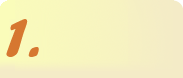
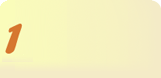
Resized the graphics and content container divs of the create a dataverse and become a contributor workflows, from their original 770px, to 676px, in order to fit within the 700px min-width of the dataverse layout. (Ticket #70882)
Added IE hack to give the dataverse containing div a min-width of 700px.

Deleted old, no longer used graphics for the contributor workflow.

Changed region(s): [[0.0311, 0.2308, 0.1553, 0.7436], [0.1553, 0.5897, 0.2174, 0.7436]]

diff --git a/src/DVN-web/web/resources/stylesheet.css b/src/DVN-web/web/resources/stylesheet.css
@@ -2,12 +2,14 @@
 
 /* MAIN LAYOUT */
 .dvn_wrapper {
-    min-width: 700px;
+    width: 100%;
+    min-width: 724px;
     position: relative;
-    background-color: white;
+    background-color: #fff;
 }
 .dvn_wrapperVanilla {
-    min-width: 700px;
+    width: 100%;
+    min-width: 724px;
     position: relative;
     background-color: #eee;
 }
@@ -18,8 +20,14 @@
     padding: 0 12px 12px 12px;
     color: #464646 !important;
     text-align: left;
-    overflow: hidden;
+    display: block;
 }
+
+/* IE min-width hack */
+* html .dvn_wrapper {border-right:724px solid #fff;}
+* html .dvn_wrapperVanilla {border-right:724px solid #eee;}
+* html .dvn_content {display:inline-block; position:relative; margin-right:-724px;}
+/* IE min-width hack */
 
 .dvn_content div, .dvn_content span, .dvn_content p, .dvn_content li, .dvn_content caption, 
 .dvn_content table, .dvn_content tbody, .dvn_content tfoot, .dvn_content thead, .dvn_content tr, .dvn_content th, .dvn_content td {
@@ -274,10 +282,6 @@ h4.noSubNode, h4.noSubNode a, h4.noSubNode a:hover {
     color: white;
 }
 
-a.lastNodeActive {
-    font-weight:bold;
-}
-
 /* HEADER */
 .dvn_headerTitle {position: relative; text-align: left;}
 .dvn_headerTitleLarge {margin: .25em 228px .25em 12px;}
@@ -394,20 +398,18 @@ div.dvnMsgBlockContainer {
 }
 div.dvnMsgBlockContainer p {
   background: transparent;
-  margin: 1em 0;
+  margin: 1em 0 1em 58px;
 }
 div.dvnInformationMessage {
   max-width: 900px;
   width: 80%;
   margin: 0 auto 1em auto;
-  padding-left: 58px;
   background: url(icon_information.png) #bfdcf1 4px no-repeat;
 }
 div.dvnSuccessMessage {
   max-width: 900px;
   width: 80%;
   margin: 0 auto 1em auto;
-  padding-left: 58px;
   background: url(icon_success.png) #cee6bb 4px no-repeat;
 }
 div.dvnSuccessMessage div.dvnMsgBlockContainer {
@@ -1304,9 +1306,6 @@ a.vdcStudyFileSubsetAnalysisLink:active, a.vdcStudyFileSubsetAnalysisLink:visite
   margin: 0 0 0 0; border-collapse: collapse;
 }
 .dvnAddFilesOuterTable table.iceDatTbl td {text-align: center; border: 1px solid #dadee0;}
-.dvnAddFilesTable th.iceDatTblColHdr1 {}
-.dvnAddFilesTable td {}
-.dvnAddFilesTable td.iceDatTblCol1 {}
 .dvnAddFilesTableCategory label.iceOutLbl {display: inline;}
 .dvnAddFilesTableCategory select.iceSelOneMnu {display: inline;}
 .dvnAddFilesTableDesc {width: 80%;}
@@ -2067,32 +2066,63 @@ td.dvnPermissionsTableOption {width: 240px; padding-top: .75em; padding-bottom: 
 
 /**** Create a Dataverse ****/
 .dvn_createDvRequest {text-align: center;}
-.dvn_createDvRequest .requestHeader {margin-left: auto; margin-right: auto; width: 770px; color: #c55b28; font-size: 160% !important; text-transform: uppercase; text-align: left;}
+.dvn_createDvRequest .requestHeader {margin-left: auto; margin-right: auto; width: 676px; color: #c55b28; font-size: 160% !important; text-transform: uppercase; text-align: left;}
 .dvn_createDvRequest .requestHeader .requestContentTitle {float: left; width: 330px; padding: 0 0 6px 0; color: #c55b28; font-size: 100% !important; font-weight: normal; text-transform: uppercase;}
 .dvn_createDvRequest .requestHeader span {color: #ccc; font-size: 100% !important;}
-.dvn_createDvRequest .requestContentDescRight {float: left; width: 400px; padding: 0 10px 6px 10px; border-left: 1px solid #ccc; color: #555; text-transform: none; text-align: left;}
-.dvn_createDvRequest .requestIntroSteps {margin-top: 30px; margin-left: auto; margin-right: auto; width: 770px;}
-.dvn_createDvRequest .requestIntroStepsContributor {margin-top: 30px; margin-left: auto; margin-right: auto; width: 573px;}
-.dvn_createDvRequest .requestIntroStepCard {position: relative; width: 183px; height: 170px; float: left; text-align: left;}
-.dvn_createDvRequest .requestIntroStepCard h3 {margin: 1em 0 1.25em 3em !important; font-size: 160% !important; font-weight: normal !important; color: #c55b28 !important; text-transform: uppercase !important;}
+.dvn_createDvRequest .requestContentDescRight {float: left; width: 324px; padding: 0 10px 6px 10px; border-left: 1px solid #ccc; color: #555; text-transform: none; text-align: left;}
+.dvn_createDvRequest .requestIntroSteps {margin-top: 30px; margin-left: auto; margin-right: auto; width: 676px;}
+.dvn_createDvRequest .requestIntroStepsContributor {margin-top: 30px; margin-left: auto; margin-right: auto; width: 521px;}
+.dvn_createDvRequest .requestIntroStepCard {position: relative; width: 161px; height: 170px; float: left; text-align: left;}
+.dvn_createDvRequest .requestIntroStepCard h3 {margin: 1.1em 0 1em 2.1em !important; font-size: 150% !important; font-weight: normal !important; color: #c55b28 !important; text-transform: uppercase !important;}
 .dvn_createDvRequest .requestIntroStepCard p {margin: 1em; font-size: 124% !important; font-weight: bold;}
 .dvn_createDvRequest .requestIntroStepCard div.stepCardBtm {position: absolute; top: 162px; left: 0; width: 183px; height: 8px; background: #fff url(request-intro-rndbtm.png) no-repeat;}
 .dvn_createDvRequest .contributorSuccess {position: relative; width: 402px; height: 170px; float: left; text-align: left;}
-#requestIntroCont {margin: 0 auto; width: 770px; text-align: right;}
+#requestIntroCont {margin: 0 auto; width: 676px; text-align: right;}
 #requestIntroCont .requestIntroContLink {padding-right: 28px; background: url(start-arrows.gif) 100% 52% no-repeat; color: #c55b28; font-size: 160% !important; text-transform: uppercase;}
 #requestIntroCont .requestIntroContLinkNote {font-size: 90% !important; line-height: 224% !important;}
-.dvn_createDvRequest .requestTimeline {position: relative; margin: 20px auto 60px auto; width: 770px; height: 4px; background: #035899 url(fourpoint-timeline.gif) no-repeat;}
+.dvn_createDvRequest .requestTimeline {position: relative; margin: 20px auto 60px auto; width: 676px; height: 4px; background: #035899 url(fourpoint-timeline.gif) no-repeat;}
+.dvn_createDvRequest .requestIntroTimeline {margin-bottom:12px; background-image:none; background-color:#ccc;}
+.creatorTimelineStep1 {background-position: -16px 0 !important;}
+.creatorTimelineStep2 {background-position: -24px -4px !important;}
+.creatorTimelineStep3 {background-position: -53px -8px !important;}
+.creatorTimelineStep4 {background-position: -78px -12px !important;}
+.contributorTimelineStep1 {background-position: 61px 0 !important;}
+.contributorTimelineStep2 {background-position: 49px -4px !important;}
+.contributorTimelineStep3 {background-position: -169px -12px !important;}
 .dvn_createDvRequest .requestTimelinePoint {position: absolute; top: -6px; text-align: center;}
+.creatorIntroStep1 {left:72px;}
+.creatorIntroStep2 {left:243px;}
+.creatorIntroStep3 {left:414px;}
+.creatorIntroStep4 {left:585px;}
+.contributorIntroStep1 {left:149px;}
+.contributorIntroStep2 {left:320px;}
+.contributorIntroStep3 {left:491px;}
+.requestIntroCard1 {margin-right:10px; background:#f4ebc7 url(request-intro-rndtop1.png) no-repeat;}
+.requestIntroCard2 {margin-right:10px; background:#f4ebc7 url(request-intro-rndtop2.png) no-repeat;}
+.requestIntroCard3 {margin-right:10px; background:#f4ebc7 url(request-intro-rndtop3.png) no-repeat;}
+.requestIntroCard4 {background:#f4ebc7 url(request-intro-rndtop4.png) no-repeat;}
+.requestIntroCard4 h3 {line-height:1.85;}
+.creatorWorkflowStep1 {left:36px;}
+.creatorWorkflowStep2 {left:214px;}
+.creatorWorkflowStep3 {left:376px;}
+.creatorWorkflowStep4 {left:568px;}
+.contributorWorkflowStep1 {left: 113px;}
+.contributorWorkflowStep2 {left: 291px;}
+.contributorWorkflowStep3 {left: 476px;}
+strong.requestWorkflowCurrent {color: #035899 !important; font-weight: bold !important;}
+strong.requestWorkflowCompleted {color: #035899 !important; font-weight: bold !important;}
 .dvn_createDvRequest .requestTimelinePoint strong {color: #ccc; font-weight: normal; line-height: 3.5;}
-.dvn_createDvRequest .requestContent {margin: 30px auto; width: 828px; border-top: 1px solid #ccc;}
-.dvn_createDvRequest .requestContentDescLeft {float: left; width: 248px; padding: 12px; text-align: left;}
-.dvn_createDvRequest .requestContentFormRight {float: left; width: 520px; padding: 0 0 20px 19px; border-left: 1px solid #ccc; text-align: left;}
+.dvn_createDvRequest .requestContent {margin: 30px auto; width: 676px; border-top: 1px solid #ccc;}
+.dvn_createDvRequest .requestContentDescLeft {float: left; width: 228px; padding: 12px 12px 12px 0; text-align: left;}
+.requestContentDescLeft .dvnInformationMessage, .requestContentDescLeft .dvnSuccessMessage {width: 100%;}
+.dvn_createDvRequest .requestContentFormRight {float: left; width: 411px; padding: 0 0 20px 0; border-left: 1px solid #ccc; text-align: left;}
 .dvn_createDvRequest .requestContentFormRight span.reqContentActionTitle {color: #555; font-weight: bold;}
 .dvn_createDvRequest .requestContentFormRight span.agreeCheckbox {padding: 0;}
+.dvn_createDvRequest .requestContentFormRight td.vdcAddSiteCol1 {width: 34%; white-space: normal;}
+.dvn_createDvRequest .requestContentFormRight textarea {width: 22.5em;}
 .dvn_createDvRequest .requestContinueLink {padding: 2em 0 0 0; text-align: center;}
 span.termsAgreementMessageTitle {display: block; padding-top: 1em; color: #526f76; font-size: 120% !important; font-weight: bold; text-transform: uppercase;}
-.termsAgreementBox {margin-bottom: 20px; padding: 4px; width: 450px; height: 300px; border: 1px solid #035899; overflow: scroll; overflow-x: auto;}
-.termsAgreementButtons {padding-top: 20px; width: 450px; text-align: center;}
+.termsAgreementBox {margin-bottom: 20px; padding: 4px; width: 380px; height: 300px; border: 1px solid #035899; overflow: scroll; overflow-x: auto;}
 .requestContentSucess a {font-weight: bold;}
 .requestContentSucess ul {margin-left: 1.5em; list-style: disc;}
 .dvnCreateDvClassificationTable td span.iceOutTxt {font-size: 90% !important;}
